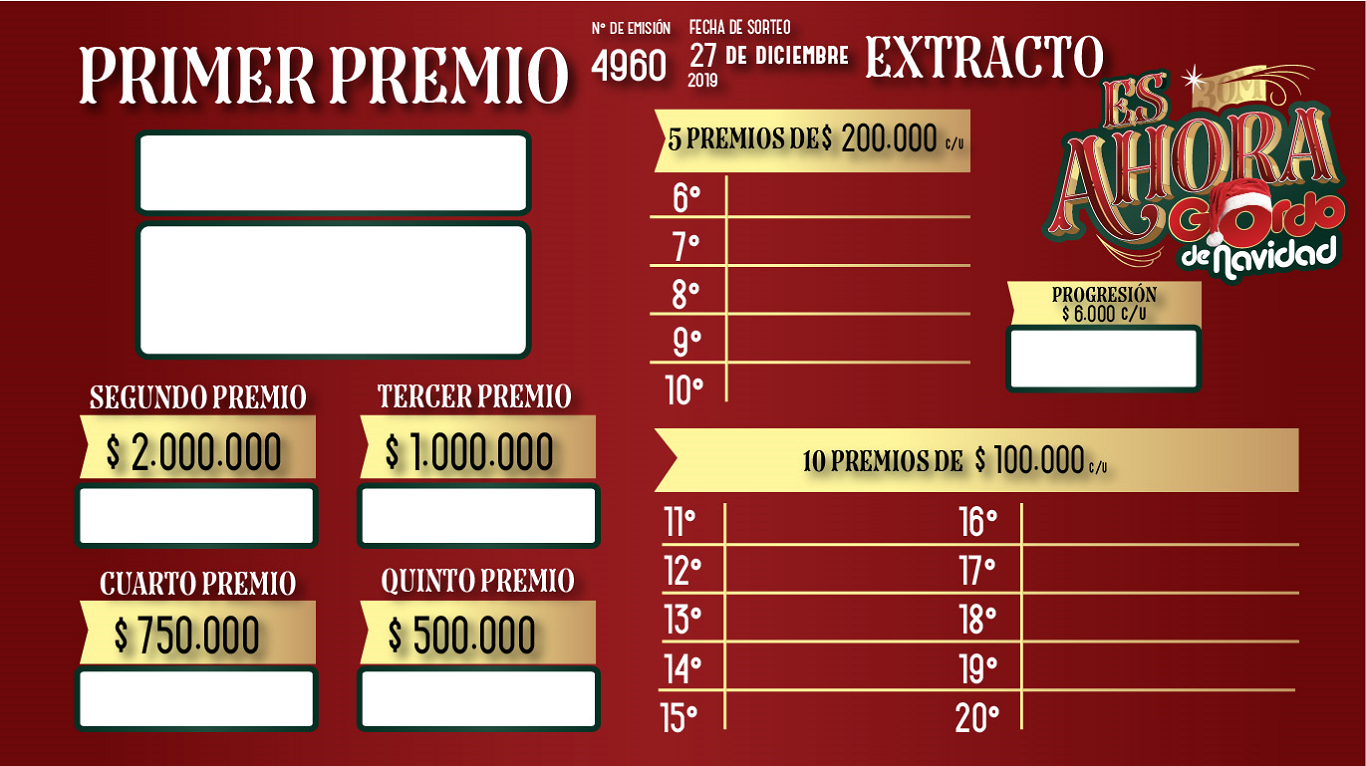
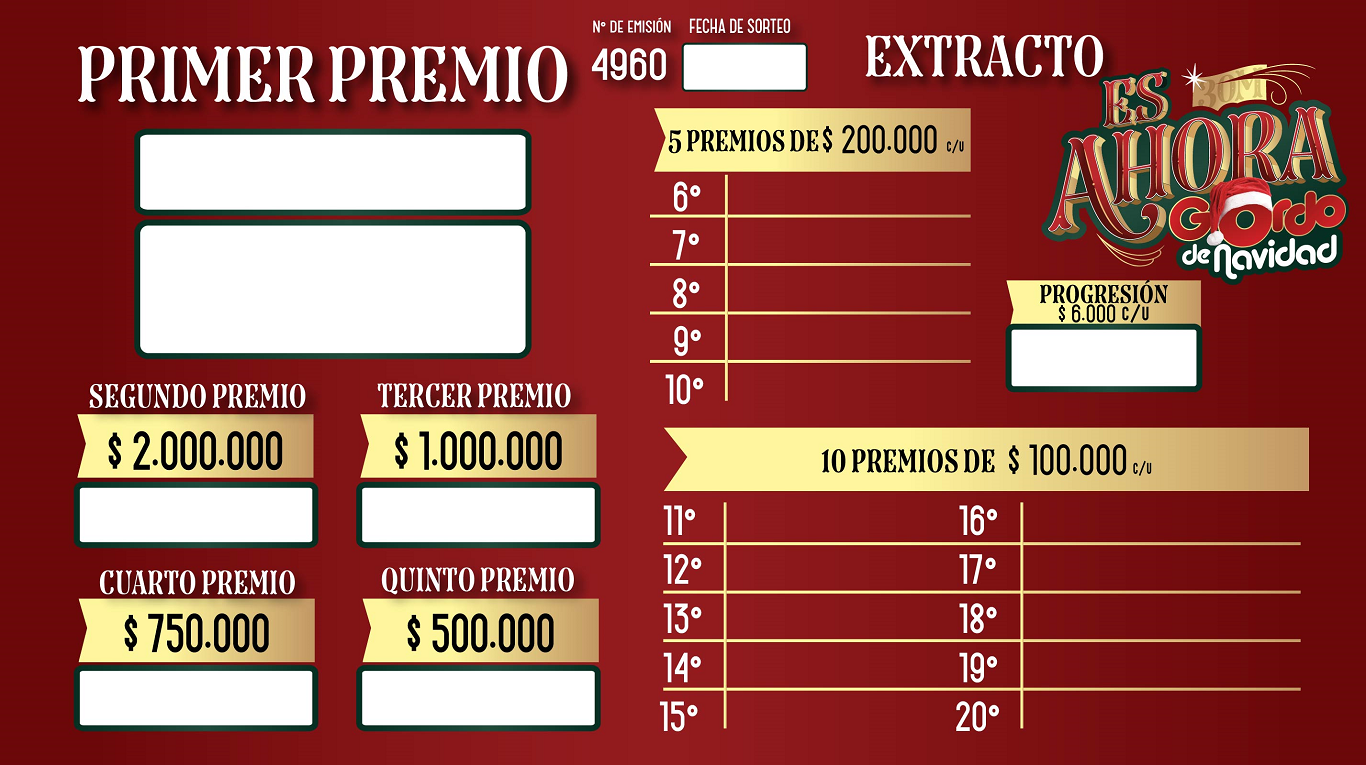
Sorteo Final 4960: nuevas imagenes y arreglos varios.

diff --git a/sorteo/escribano/escribano.php b/sorteo/escribano/escribano.php
@@ -37,10 +37,10 @@ $fecha_sorteo = $row_sorteo->FECHA_SORTEO;
     <div id="zona1">
       <!--   <div id="sorteo">
             <?php echo $_SESSION['sorteo']; ?>
-        </div>
+        </div>-->
         <div id="fecha_sorteo">
             <?php echo $fecha_sorteo; ?>
-        </div> -->
+        </div>
 
 
        <div id="primer_premio" style="background-image:url('escribano_img/primer_premio_4960.png');"></div>
@@ -74,8 +74,8 @@ $fecha_sorteo = $row_sorteo->FECHA_SORTEO;
 
 
     <div id="zona3">
-        <!-- <div id="sorteo"><?php echo $_SESSION['sorteo']; ?></div>
-            <div id="fecha_sorteo">20/07/2016</div> -->
+        <!-- <div id="sorteo"><?php echo $_SESSION['sorteo']; ?></div>-->
+            <div id="fecha_sorteo" style="left: 1165px;top: 69px;"><?php echo $fecha_sorteo; ?></div>
     </div>
 
 
@@ -92,7 +92,7 @@ $fecha_sorteo = $row_sorteo->FECHA_SORTEO;
 
     <div id="ventana_primer_premio_vendido" class="w3-modal">
         <div class="w3-modal-content">
-            <header class="w3-container w3-green">
+            <header class="w3-container" style="background-color: #881518;color: #fff!important;">
                 <h2 style="font-size: 17px;">Sorteo <?php echo $_SESSION['sorteo'] ?> - Vendido En Agencia  </h2>
             </header>
             <div class="w3-container">
@@ -103,7 +103,7 @@ $fecha_sorteo = $row_sorteo->FECHA_SORTEO;
                     </tbody>
                 </table>
             </div>
-            <footer class="w3-container w3-green">
+            <footer class="w3-container" style="background-color: #881518;color: #fff!important;">
                 <div id="tiempo_cierre" style="text-align: right;"></div>
                 <br>
             </footer>
@@ -139,10 +139,10 @@ $fecha_sorteo = $row_sorteo->FECHA_SORTEO;
                 '01': {
                     inicial: {
                         top: '280px',
-                        left: '332px'
+                        left: '333px'
                     },
                     final: {
-                        height: '143px'
+                        height: '140px'
                     }
                 },
                 '02': {
@@ -187,7 +187,7 @@ $fecha_sorteo = $row_sorteo->FECHA_SORTEO;
                         left: '845px'
                     },
                     final: {
-                        height: '55px'
+                        height: '53px'
                     }
                 },
                 '07': {
@@ -196,7 +196,7 @@ $fecha_sorteo = $row_sorteo->FECHA_SORTEO;
                         left: '845px'
                     },
                     final: {
-                        height: '55px'
+                        height: '53px'
                     }
                 },
                 '08': {
@@ -205,7 +205,7 @@ $fecha_sorteo = $row_sorteo->FECHA_SORTEO;
                         left: '845px'
                     },
                     final: {
-                        height: '55px'
+                        height: '53px'
                     }
                 },
                 '09': {
@@ -214,7 +214,7 @@ $fecha_sorteo = $row_sorteo->FECHA_SORTEO;
                         left: '845px'
                     },
                     final: {
-                        height: '55px'
+                        height: '53px'
                     }
                 },
                 '10': {
@@ -223,97 +223,97 @@ $fecha_sorteo = $row_sorteo->FECHA_SORTEO;
                         left: '845px'
                     },
                     final: {
-                        height: '55px'
+                        height: '53px'
                     }
                 },
                 '11': {
                     inicial: {
-                        top: '520px',
+                        top: '517px',
                         left: '830px'
                     },
                     final: {
-                        height: '55px'
+                        height: '53px'
                     }
                 },
                 '12': {
                     inicial: {
-                        top: '570px',
+                        top: '567px',
                         left: '830px'
                     },
                     final: {
-                        height: '55px'
+                        height: '53px'
                     }
                 },
                 '13': {
                     inicial: {
-                        top: '620px',
+                        top: '616px',
                         left: '830px'
                     },
                     final: {
-                        height: '55px'
+                        height: '53px'
                     }
                 },
                 '14': {
                     inicial: {
-                        top: '668px',
+                        top: '664px',
                         left: '830px'
                     },
                     final: {
-                        height: '55px'
+                        height: '53px'
                     }
                 },
                 '15': {
                     inicial: {
-                        top: '715px',
+                        top: '714px',
                         left: '830px'
                     },
                     final: {
-                        height: '55px'
+                        height: '53px'
                     }
                 },
                 '16': {
                     inicial: {
-                        top: '520px',
+                        top: '517px',
                         left: '1150px'
                     },
                     final: {
-                        height: '55px'
+                        height: '53px'
                     }
                 },
                 '17': {
                     inicial: {
-                        top: '570px',
+                        top: '567px',
                         left: '1150px'
                     },
                     final: {
-                        height: '55px'
+                        height: '53px'
                     }
                 },
                 '18': {
                     inicial: {
-                        top: '620px',
+                        top: '616px',
                         left: '1150px'
                     },
                     final: {
-                        height: '55px'
+                        height: '53px'
                     }
                 },
                 '19': {
                     inicial: {
-                        top: '668px',
+                        top: '664px',
                         left: '1150px'
                     },
                     final: {
-                        height: '55px'
+                        height: '53px'
                     }
                 },
                 '20': {
                     inicial: {
-                        top: '715px',
+                        top: '714px',
                         left: '1150px'
                     },
                     final: {
-                        height: '55px'
+                        height: '53px'
                     }
                 },
                 'progresion': {
@@ -450,7 +450,7 @@ $fecha_sorteo = $row_sorteo->FECHA_SORTEO;
             var posicionZona3 = {
                 '01': {
                     inicial: {
-                        top: '540px',
+                        top: '565px',
                         left: '460px'
                     },
                     final: {
@@ -957,7 +957,7 @@ $fecha_sorteo = $row_sorteo->FECHA_SORTEO;
                 $('#zona3 #localidad').remove();
                 if(sortea_hasta_sale_ganadores[sortea_hasta_sale_resumenContador] != undefined){
                     var estilo = { top: '500px', left: '940px', width: '230px', height: '220px', 'font-size': '30px', 'text-align': 'left' };
-                    var elemento = $('<span id="localidad" class="billete">' + sortea_hasta_sale_ganadores[sortea_hasta_sale_resumenContador] + '<br> </span>').css(estilo);
+                    var elemento = $('<span id="localidad" class="billete2">' + sortea_hasta_sale_ganadores[sortea_hasta_sale_resumenContador] + '<br> </span>').css(estilo);
                     $('#zona3').append(elemento);
 
                     sortea_hasta_sale_resumenContador++;
@@ -1123,10 +1123,13 @@ $fecha_sorteo = $row_sorteo->FECHA_SORTEO;
 
                     $('#' + id).animate(final, 1000);
                 } else {
+                    var classB = 'class="billete"';
+                    if(billete.posicion >=6 && billete.posicion <=20)
+                        var classB = 'class="billete2"';
                     var id = 'billete' + zona + '_' + billete.posicion;
                     $('#' + id).remove();
 
-                    var elemento = $('<span id="' + id + '" class="billete">' + billete.numero + '</span>');
+                    var elemento = $('<span id="' + id + '" '+classB+'>' + billete.numero + '</span>');
 
                     $('#zona' + zona).append(elemento);
 

diff --git a/sorteo/operador/loteria_sorteador_segundo_juego.php b/sorteo/operador/loteria_sorteador_segundo_juego.php
@@ -1,8 +1,8 @@
-<div class="row-fluid show-grid">		
+<div class="row-fluid show-grid">
 	<div id="contendio_juego" class="well form-inline text-center">
-		<h4>Sale o Sale</h4>
+		<h4>Sortea hasta que Sale</h4>
 		<form class="form-inline">
-		 <span class="texto_sorteo">Posicion</span><input type="text" class="input-small bola" id="posicion" name="posicion" maxlength="2" size="1">  <span class="texto_sorteo">Numero</span>  <input type="text" id="entero" name="entero" class="input-medium bola" maxlength="5" size="1"> 
+		 <span class="texto_sorteo">Posicion</span><input type="text" class="input-small bola" id="posicion" name="posicion" maxlength="2" size="1">  <span class="texto_sorteo">Numero</span>  <input type="text" id="entero" name="entero" class="input-medium bola" maxlength="5" size="1">
 		</form>
 	</div>
 </div>
@@ -15,20 +15,20 @@
     <button type="button" class="close" onclick="$('#success_juego.alert').slideUp('slow');">x</button>
     <span><i class="icon-ok"></i></span>
     <span class="contenido_error"></span>
-</div>    
+</div>
 <div id="warning_juego" class="alert alert-info" style="display:none">
-      <button type="button" class="close" onclick="$('#warning_juego.alert').slideUp('slow');">×</button> 
+      <button type="button" class="close" onclick="$('#warning_juego.alert').slideUp('slow');">×</button>
       <span><i class="icon-info-sign"></i></span>
-      <span class="contenido_error"></span>     
+      <span class="contenido_error"></span>
 </div>
 <div id="warning_juego2" class="alert alert-info" style="display:none">
-      <button type="button" class="close" onclick="$('#warning_juego2.alert').slideUp('slow');">×</button> 
+      <button type="button" class="close" onclick="$('#warning_juego2.alert').slideUp('slow');">×</button>
       <span><i class="icon-info-sign"></i></span>
-      <span class="contenido_error"></span>     
+      <span class="contenido_error"></span>
 </div>
 <script type="text/javascript">
 $(function() {
-  cargarConfiguracion({accion: "configuracion",juego:"segundo_juego"}); 
+  cargarConfiguracion({accion: "configuracion",juego:"segundo_juego"});
 
 });
 </script>

diff --git a/db.php b/db.php
@@ -6,8 +6,8 @@ include_once dirname(__FILE__) . '/mensajes.php';
 
 function conectar_db()
 {
-    global $db;
-
+    global $db;  
+//
     $db = NewADOConnection('oci8po');
     //$db->SetCharSet('utf8');
     $db->charSet = 'utf8';
@@ -42,13 +42,13 @@ function conectar_db()
         (CONNECT_DATA =(SID = XE)))", 'sgs', 'esquema');
          */
         $db->PConnect("(DESCRIPTION =
-                        (ADDRESS =
-                    (PROTOCOL = TCP)
-                        (HOST = localhost)
-                        (PORT = 1521)
-                        (HASH = '1')
-                     )
-                (CONNECT_DATA =(SID = xe)))", 'sgs', 'esquema');
+						(ADDRESS =
+					(PROTOCOL = TCP)
+						(HOST = 172.16.50.18)
+						(PORT = 1521)
+						(HASH = '1')
+					 )
+				(CONNECT_DATA =(SID = desa_01)))", 'sgs', 'esquema');
 
         return true;
     } catch (Exception $e) {
@@ -76,7 +76,7 @@ function conectar_db()
     }
 }
 
-function sql($sql, $variables)
+function sql($sql, $variables = null)
 {
     global $db;
 

diff --git a/db_kanban.php b/db_kanban.php
@@ -50,15 +50,14 @@ function conectar_db_kanban()
      */
 
     try {
-
         $db_kanban->Connect("(DESCRIPTION =
-                        (ADDRESS =
-                    (PROTOCOL = TCP)
-                        (HOST = nscentral-scan.loteriadecordoba.com.ar)
-                        (PORT = 1521)
-                        (HASH = '" . rand(0, 99999999) . "')
-                     )
-                (CONNECT_DATA =(SERVICE_NAME = CENTRAL)))", 'sgs_importacion', 'esquema');
+                (ADDRESS =
+                (PROTOCOL = TCP)
+                (HOST = 172.16.50.18)
+                (PORT = 1521)
+                (HASH = '" . rand(0, 99999999) . "')
+                )
+                (CONNECT_DATA =(SID = desa_01)))", 'sgs_importacion', 'esquema');
 
         return true;
     } catch (Exception $e) {

diff --git a/sorteo/escribano/escribano_estilo.php b/sorteo/escribano/escribano_estilo.php
@@ -32,11 +32,11 @@ body{
 
 
 #fecha_sorteo{
-font-size: 21px;
-    left: 250px;
+    font-size: 21px;
+    left: 692px;
     position: relative;
-    top: 16px;
-
+    font-family: 'MyriadPro-Bold';
+    top: 56px;
 }
 
 #fecha_sorteo_resumen{
@@ -111,6 +111,21 @@ font-size: 21px;
     text-align: center;
     position: absolute;
     font-family: 'MyriadPro-Bold';
+}
+
+.billete2{
+    border: 0px solid #FFF;
+    text-align: center;
+    position: absolute;
+    font-family: 'MyriadPro-Bold';
+}
+
+.billete2{
+    border: 0px solid #000;
+    text-align: center;
+    position: absolute;
+    font-family: 'MyriadPro-Bold';
+    color:#fff;
 }
 
 #primer_premio{
